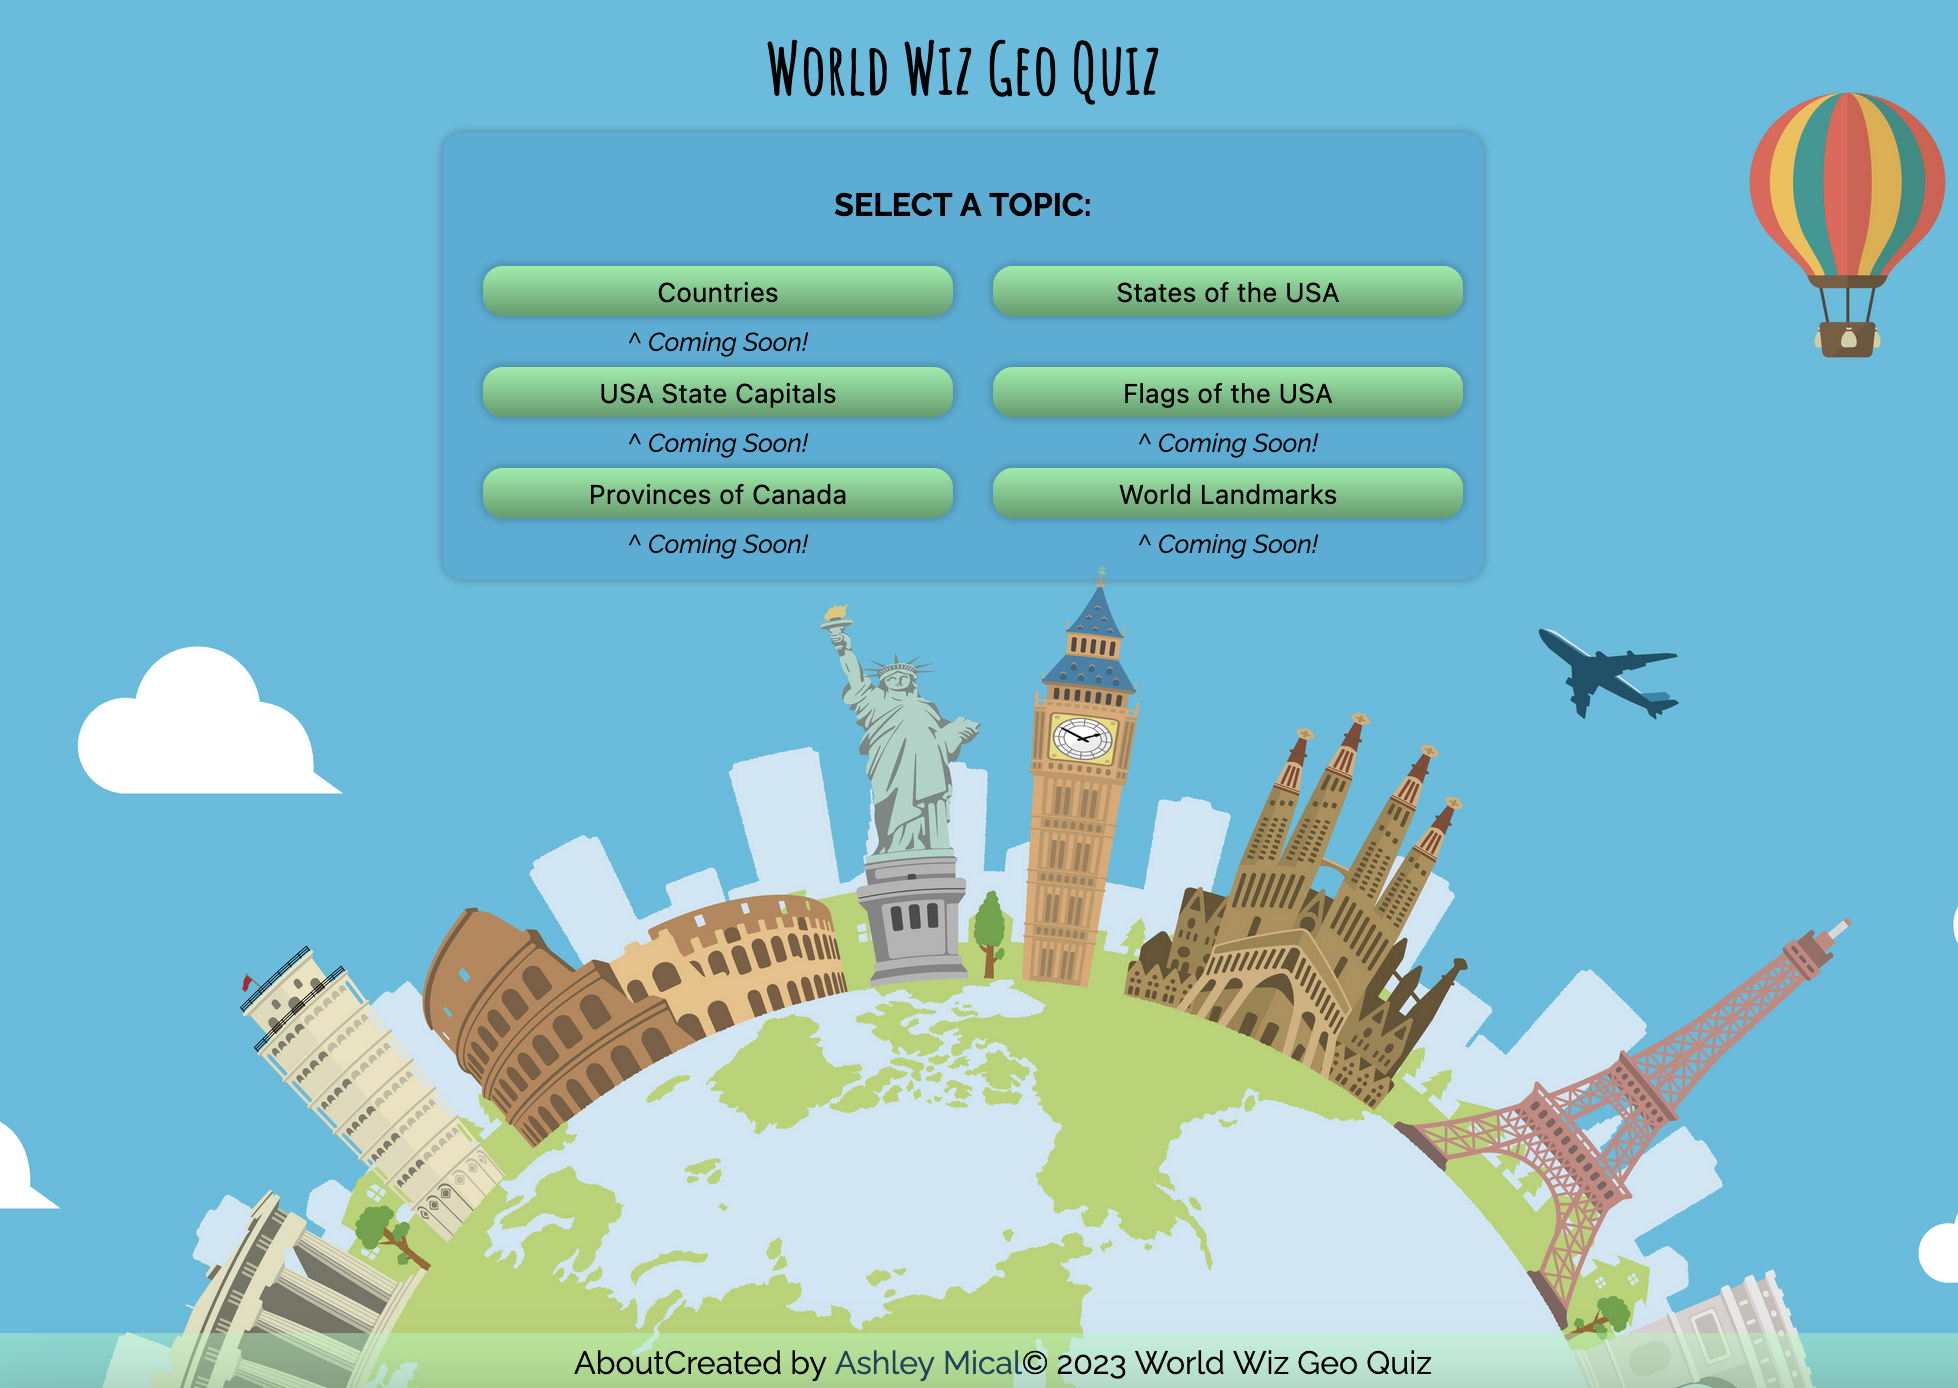
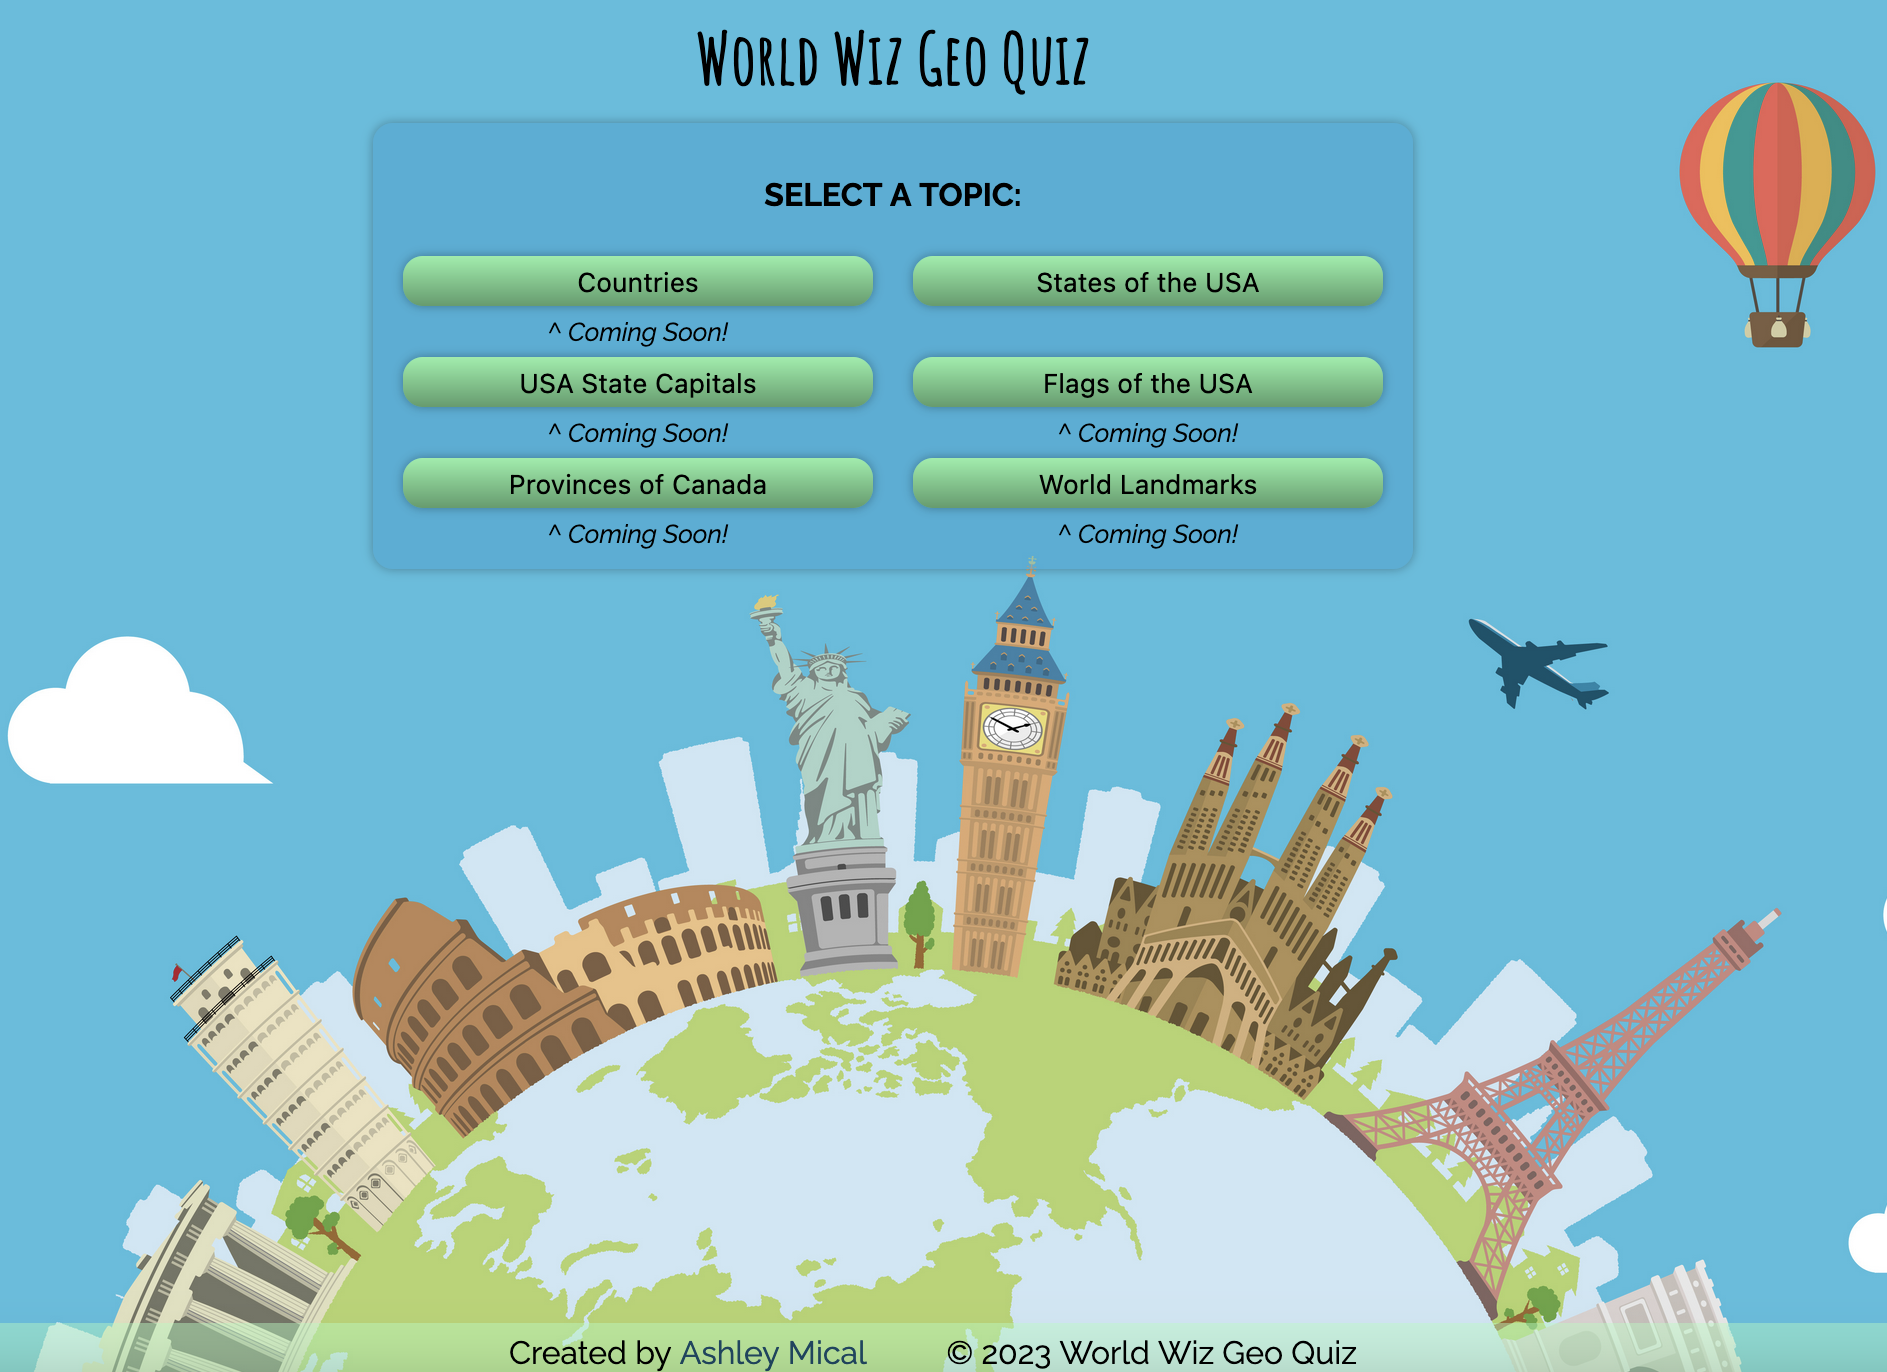
footer li spacing, update README.md, question label spacing

diff --git a/src/views/USStatesQuiz.vue b/src/views/USStatesQuiz.vue
@@ -38,35 +38,24 @@
 
         <form action="/sample.html">
           <p>This is the question!</p>
-          <input
-            type="radio"
-            id="Answer 1"
-            name="stateQuestion"
-            value="Answer 1"
-          />
-          <label for="Answer 1">Answer 1</label>
-          <input
-            type="radio"
-            id="Answer 2"
-            name="stateQuestion"
-            value="Answer 2"
-          />
-          <label for="Answer 2">Answer 2</label>
-          <input
-            type="radio"
-            id="Answer 3"
-            name="stateQuestion"
-            value="Answer 3"
-          />
-          <label for="Answer 3">Answer 3</label>
-          <input
-            type="radio"
-            id="Answer 4"
-            name="stateQuestion"
-            value="Answer 4"
-          />
-          <label for="Answer 4">Answer 4</label>
-
+          <div class="radio-group">
+            <label>
+              <input type="radio" name="stateQuestion" value="Answer 1" />
+              Answer 1
+            </label>
+            <label>
+              <input type="radio" name="stateQuestion" value="Answer 2" />
+              Answer 2
+            </label>
+            <label>
+              <input type="radio" name="stateQuestion" value="Answer 3" />
+              Answer 3
+            </label>
+            <label>
+              <input type="radio" name="stateQuestion" value="Answer 4" />
+              Answer 4
+            </label>
+          </div>
           <input type="submit" value="Submit" />
         </form>
       </main>
@@ -74,7 +63,6 @@
       <footer>
         <nav>
           <ul>
-            <li>About</li>
             <li>
               Created by <a href="https://github.com/micamash">Ashley Mical</a>
             </li>
@@ -122,6 +110,7 @@ main {
   display: flex;
   flex-direction: column;
   justify-content: center;
+  align-items: center;
   text-align: center;
   background-color: #239ecf7a;
   border-radius: 10px;
@@ -132,6 +121,10 @@ main {
 main > p {
   font-weight: bold;
   text-transform: uppercase;
+}
+
+img {
+  width: 500px;
 }
 
 input {
@@ -161,12 +154,16 @@ form {
   align-items: center;
 }
 
-ul {
-  /* display: flex;
-  justify-content: center;
+.radio-group {
+  display: flex;
+  flex-direction: column;
   align-items: center;
-  text-align: center;
-  margin: 5px 0; */
+  margin-right: 140px;
+}
+
+label {
+  display: flex;
+  align-items: center;
 }
 
 li {

diff --git a/src/views/MainPage.vue b/src/views/MainPage.vue
@@ -73,7 +73,6 @@
       <footer>
         <nav>
           <ul>
-            <li>About</li>
             <li>
               Created by <a href="https://github.com/micamash">Ashley Mical</a>
             </li>
@@ -200,5 +199,9 @@ footer {
   justify-content: center;
   bottom: 0;
   left: 0;
+}
+
+footer ul li {
+  margin: 0 20px;
 }
 </style>
